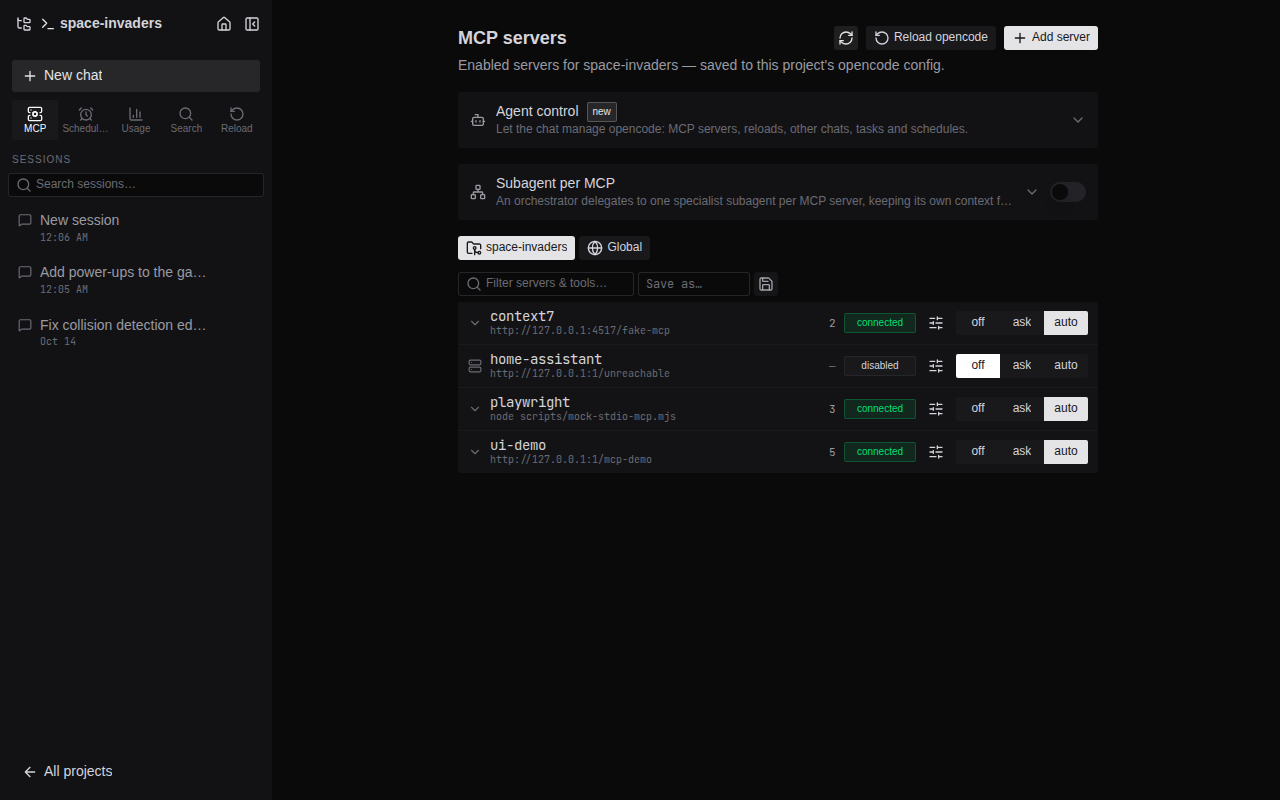
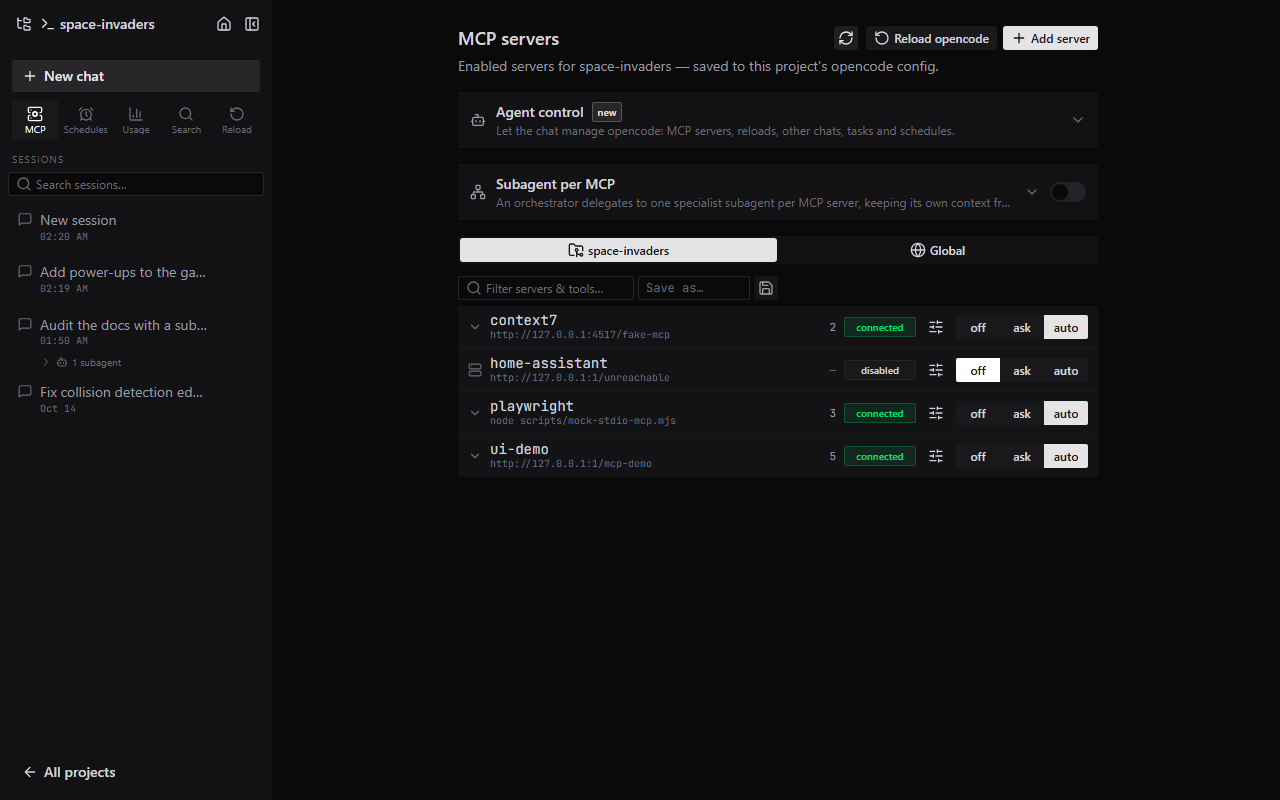
docs: live demo link, more screenshots
New README screenshots (MCP diagnosis and tools, subagent per MCP,
schedules, subagents in the chat, settings on a phone, the demo) taken by
a new e2e spec against the mock, which gains a subagent session.

diff --git a/tests/e2e/screens.spec.ts b/tests/e2e/screens.spec.ts
@@ -1,0 +1,67 @@
+import { expect, test } from '@playwright/test'
+import { shot } from './shot'
+
+// Walks through the newer screens (and captures them for the README with
+// SCREENSHOTS=1): MCP diagnosis and tools, subagent per MCP, schedules,
+// subagents in the chat, and the settings on a phone.
+const PROJECT = '/projects/space-invaders'
+const DIR = Buffer.from(PROJECT).toString('base64url')
+
+test('MCP server details: a failing server explains itself', async ({ page }) => {
+  await page.goto(`/p/${DIR}/mcp`)
+  await page.getByRole('button', { name: 'Details of home-assistant' }).click()
+  const dialog = page.getByRole('dialog')
+  await dialog.getByRole('tab', { name: 'Test' }).click()
+  await dialog.getByRole('button', { name: 'Run test' }).click()
+  await expect(dialog.getByText('The server could not be reached')).toBeVisible()
+  await shot(page, 'mcp-diagnose')
+})
+
+test('MCP server details: tools with descriptions and parameters', async ({ page }) => {
+  await page.goto(`/p/${DIR}/mcp`)
+  await page.getByRole('button', { name: 'Details of context7' }).click()
+  const dialog = page.getByRole('dialog')
+  await dialog.getByRole('tab', { name: /Tools/ }).click()
+  await dialog.getByText('query-docs').click()
+  await expect(dialog.getByText('context7_query-docs')).toBeVisible()
+  await shot(page, 'mcp-tools')
+})
+
+test('subagent per MCP: orchestrator and specialists', async ({ page }) => {
+  await page.goto(`/p/${DIR}/mcp`)
+  await page.getByText('Subagent per MCP', { exact: true }).click()
+  await expect(page.getByText('@mcp-context7')).toBeVisible()
+  await shot(page, 'mcp-subagents')
+})
+
+test('schedules: a scheduled prompt with its cadence', async ({ page, request }) => {
+  const created = await (await request.post('/api/v1/schedules', {
+    data: { name: 'Morning triage', directory: PROJECT, prompt: 'Look at the open TODOs and failing tests and summarize what needs attention today.', cron: '0 8 * * 1-5' }
+  })).json()
+  try {
+    await page.goto(`/p/${DIR}/schedules`)
+    await expect(page.getByText('weekdays at 08:00')).toBeVisible()
+    await shot(page, 'schedules')
+  } finally {
+    await request.delete(`/api/v1/schedules/${created.id}`)
+  }
+})
+
+test('subagents: card in the chat, nested in the sidebar, way back from the child', async ({ page }) => {
+  await page.goto(`/p/${DIR}/session/ses_mock3`)
+  await expect(page.getByText('@general').first()).toBeVisible()
+  await expect(page.getByText('1 subagent')).toBeVisible()
+  await shot(page, 'subagents')
+  await page.getByRole('link', { name: /Open the general subagent/ }).click()
+  await expect(page.getByRole('link', { name: 'Back to the parent conversation' })).toBeVisible()
+})
+
+test('settings on a phone: full-width actions', async ({ page }) => {
+  await page.setViewportSize({ width: 390, height: 844 })
+  await page.goto(`/p/${DIR}/mcp`)
+  await expect(page.getByRole('button', { name: 'Add server' })).toBeVisible()
+  const add = await page.getByRole('button', { name: 'Add server' }).boundingBox()
+  // a full-width action row: the button spans about half the screen or more
+  expect(add!.width).toBeGreaterThan(150)
+  await shot(page, 'mobile-mcp')
+})

diff --git a/README.md b/README.md
@@ -13,6 +13,8 @@
 
 Built with **Nuxt 4 + Nuxt UI**, keeping the opencode look & feel.
 
+**[▶ Try the live demo](https://juanmandev.github.io/opencode-web/)**: the real UI running entirely in your browser with a tiny scripted AI. Ask it to "fix the bug", "run the tests" or "delegate a review to a subagent". No server, no keys, nothing leaves your browser.
+
 <img src="docs/screenshots/chat.png" alt="Chat view" width="800" />
 
 <sub>Screenshots are generated by CI against a mock opencode server and refreshed on every release.</sub>
@@ -31,6 +33,7 @@ One origin means no CORS, no double auth, and SSE streaming included. **It works
 | --- | --- |
 | 🗂 **Project picker** | Start page with known projects and recents. Open any folder by path or browse the server filesystem. Everything is scoped per project via opencode's `?directory=` API. |
 | 💬 **Live chat** | SSE streaming with markdown, collapsible thinking, tool calls with input/output, per-step tokens & cost, timestamps, abort, a prompt queue, and permission and question prompts that survive reloads. Message actions: copy, read aloud, edit & resend, fork. |
+| ⌨ **Autocomplete like opencode** | `@` mentions files, folders and subagents (attached the way opencode does), `/` runs commands, `!` switches to shell mode. On phones the options row hides while the keyboard is open. |
 | 🧠 **Model + think level** | Model picker across all providers with pricing & context details, think-level selector for reasoning models, agent picker. Persisted per project. |
 | 🔌 **MCP manager** | Per-project and global MCP status, off / ask / auto modes per server and per tool, presets, and add remote or local servers from a catalog, a URL, a command line, pasted JSON or a form. **Per-conversation MCP selection** in the prompt box. Tool lists are discovered from the servers themselves over **Streamable HTTP, legacy SSE or stdio**. Every server has a **details view**: why it fails and how to fix it, its tools with full descriptions and parameters, an **editor** that never exposes stored secrets, and a step-by-step **connection test**. [More →](docs/mcp.md) |
 | 🤖 **Agent control** | One click registers this app's MCP server with opencode, so **the chat can manage opencode itself**: test, add and reconnect MCP servers, reload the config (after running replies finish), read and prompt other chats, see task lists, and manage schedules. State-changing tools ask first. [More →](docs/mcp.md#agent-control) |
@@ -64,6 +67,32 @@ One origin means no CORS, no double auth, and SSE streaming included. **It works
     <td>MCP apps inline</td>
     <td>Fullscreen app viewer</td>
     <td>Apps on a phone</td>
+  </tr>
+  <tr>
+    <td><img src="docs/screenshots/mcp-diagnose.png" alt="A failing MCP server explains why" /></td>
+    <td><img src="docs/screenshots/mcp-tools.png" alt="Tools of an MCP server with parameters" /></td>
+    <td><img src="docs/screenshots/mobile-mcp.png" alt="MCP settings on a phone" width="180" /></td>
+  </tr>
+  <tr align="center">
+    <td>Diagnose &amp; fix a server</td>
+    <td>Tools with parameters</td>
+    <td>Settings on a phone</td>
+  </tr>
+  <tr>
+    <td><img src="docs/screenshots/subagents.png" alt="Subagent card in the chat" /></td>
+    <td><img src="docs/screenshots/mcp-subagents.png" alt="Orchestrator with a subagent per MCP server" /></td>
+    <td><img src="docs/screenshots/schedules.png" alt="Scheduled prompts" /></td>
+  </tr>
+  <tr align="center">
+    <td>Subagents in the chat</td>
+    <td>Subagent per MCP</td>
+    <td>Scheduled prompts</td>
+  </tr>
+  <tr>
+    <td colspan="3" align="center"><img src="docs/screenshots/demo.png" alt="The live demo: a scripted in-browser AI fixing a bug" width="640" /></td>
+  </tr>
+  <tr align="center">
+    <td colspan="3"><a href="https://juanmandev.github.io/opencode-web/">Live demo</a>: everything runs in your browser</td>
   </tr>
 </table>
 
@@ -208,6 +237,8 @@ NUXT_OPENCODE_URL=http://127.0.0.1:4517 npm run dev
 npm run typecheck   # vue-tsc
 npm run test:unit   # vitest: MCP client (HTTP + SSE), redaction, directory encoding
 npm run build && npm run test:e2e   # playwright e2e against the mock, incl. MCP UI apps and mobile
+npm run build:demo && node demo/serve.mjs   # the static in-browser demo at http://127.0.0.1:3340/opencode-web/
+npm run test:demo                   # its Playwright suite
 SCREENSHOTS=1 npm run test:e2e      # also regenerate docs/screenshots
 # real opencode (any version) + a mock model; COMPAT_PROTOCOL=v2 forces the v2 protocol
 OPENCODE_VERSION=1.18.34 npx playwright test -c playwright.compat.config.ts
